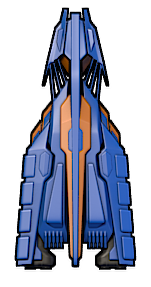
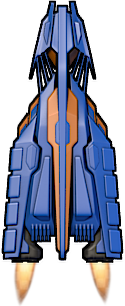
Updated player ship graphics

diff --git a/src/components/Game/Objects/Ship.js b/src/components/Game/Objects/Ship.js
@@ -8,8 +8,8 @@ class Ship extends GameObject {
 
   constructor(context, canvas) {
 
-    let ratio = 151/287; // width/height ratio for image
-    let height = 150 * window.CANVAS_HEIGHT_ADJUST;
+    let ratio = 125/306; // width/height ratio for image
+    let height = 150 * window.CANVAS_HEIGHT_ADJUST; // 150px is for 1000px -> 1080px window height
     let width = height * ratio;
 
     // context, canvas, width, height
@@ -23,7 +23,7 @@ class Ship extends GameObject {
     ];
     this.bullets = [];
     this.then = Date.now(); // previous shoot time frame, for throttling the shooting
-    this.shootFPS = 12; // shoot approx 12 shots/second at approx 60fps of the game
+    this.shootFPS = 12; // shoot §approx 12 shots/second at approx 60fps of the game
     this.destroyed = false;
     this.allowShipMovement = false;
     this.activeKeys = {};
